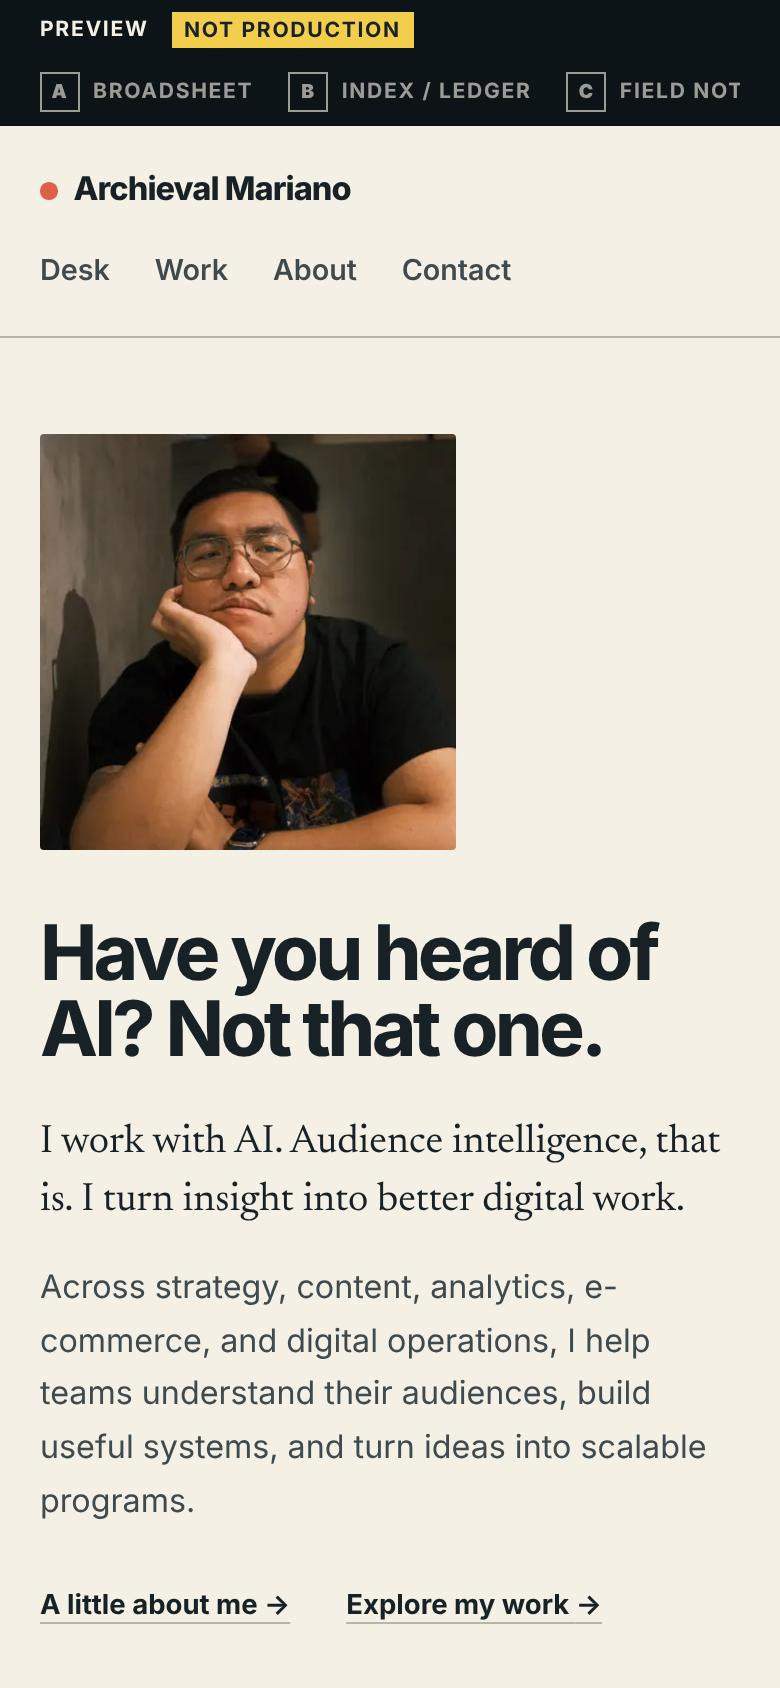
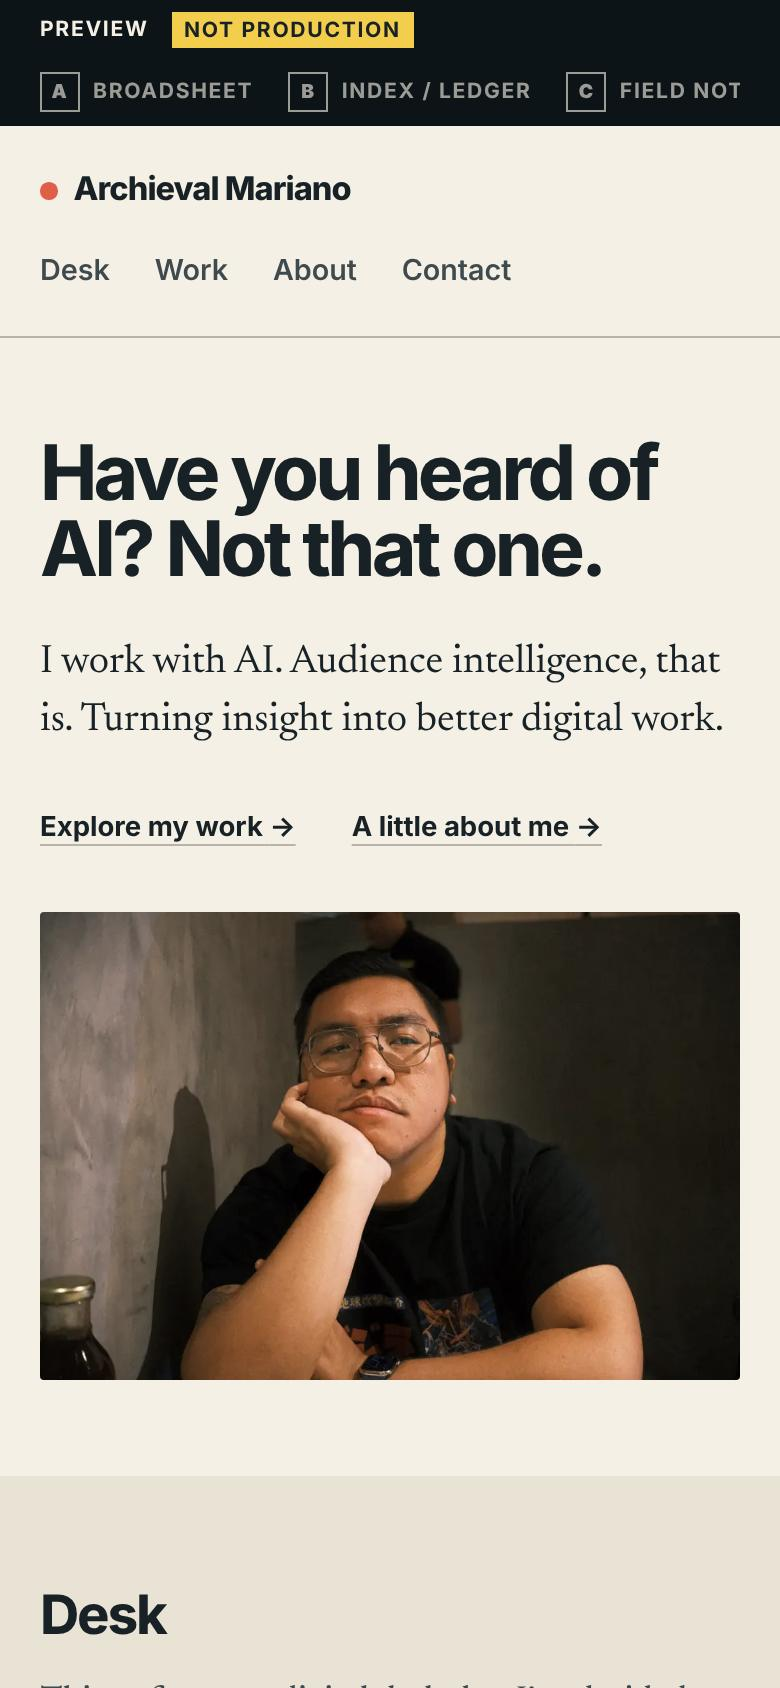
Refine exploration D: approved copy, full portrait, Work reading order
Fifth iteration of D · Quiet Personal Site (preview only):

- Approved copy for the hero, Desk (introduction, subtitles, and
  descriptions), Away from the dashboards, and Work, kept verbatim in one
  `copy` object in Quiet.astro (not the shared archive.ts, so A–C are
  unchanged). Apostrophes use the site's typographic ’.
- Hero: headline, approved supporting line, then "Explore my work" and
  "A little about me". The earlier intro paragraph is not part of the
  approved hero and is removed from D only.
- Portrait: the entire 2000×1333 photograph at its native 3:2, with no
  object-fit, forced ratio, or crop, in a column of up to 28rem.
- Desk: compact rows now show the approved subtitles. Rows, gating, and
  the DOGEAR feature are unchanged.
- Work: the heading and subheading sit beside the three approved
  paragraphs, which stay in one continuous column at a reading measure;
  the source order matches the reading order.
- The gate test asserts every approved line verbatim and the absence of
  superseded copy. The design notes and screenshots are updated.

Production and CI builds remain byte-identical to main.

Claude-Session: https://claude.ai/code/session_01MTmP2g4QmM7hkFLhRYRRGJ

diff --git a/src/data/homePreview.ts b/src/data/homePreview.ts
@@ -36,6 +36,6 @@ export const homeVariants: HomeVariant[] = [
     number: 'D',
     name: 'Quiet Personal Site',
     summary:
-      'Selected foundation. A restrained evolution of the current homepage, with Desk, Work, About, and Contact; Desk rows that expand as sections publish; personal photography; and a compact Work section.',
+      'Approved direction. A restrained evolution of the current homepage, with approved copy, the full portrait, Desk rows that expand as sections publish, personal photography, and a single-column Work introduction.',
   },
 ];

diff --git a/docs/redesign/home-explorations/README.md b/docs/redesign/home-explorations/README.md
@@ -1,6 +1,6 @@
 # Homepage explorations — four directions
 
-Status: **D · Quiet Personal Site is the selected foundation** and is now in its fourth iteration (adaptive Desk rows, wider portrait framing, aligned photo captions, and a more compact Work section). A–C are kept for reference only and are no longer developed. Nothing here is approved for production.
+Status: **D · Quiet Personal Site is the selected foundation** and is now in its fifth iteration (approved copy, the full uncropped portrait, and a single-column Work introduction). A–C are kept for reference only and are no longer developed. Nothing here is approved for production.
 
 Exploration 01 for repositioning archievalmariano.com from a professional portfolio
 into a personal archive: professional work, independent software, experiments,
@@ -144,14 +144,47 @@ photography into one visual language. **Risks:** the most art-directed, so the
 hardest to keep maintainable. The regional plate only stays meaningful if more
 located material is added over time.
 
-## D · Quiet Personal Site — iteration 4 (selected foundation)
+## D · Quiet Personal Site — iteration 5 (selected foundation)
 
-*Restraint over concept.* D keeps the production homepage's palette, Inter and
-Newsreader, understated rules, introduction, portrait, Desk · Work · About · Contact
-navigation, personal photography, and the dark blue closing panel. Iteration 4
-refines layout and responsiveness. Screenshots: [desktop, 1440px](quiet-desktop-full.jpg)
-· [mobile, 390px](quiet-mobile-full.jpg). The desktop page is 3,529px tall, down from
-4,074px in iteration 3 and 5,230px in iteration 2.
+*Approved direction.* Iteration 5 applies the author-approved copy, restores the full
+portrait, and adjusts the layout around the new text. Screenshots:
+[desktop, 1440px](quiet-desktop-full.jpg) · [mobile, 390px](quiet-mobile-full.jpg).
+
+### Iteration 5 changes
+
+- **Approved copy:** all section copy is the author-approved text, kept in a single
+  `copy` object at the top of `Quiet.astro` (not in the shared `archive.ts`, so A–C
+  are unchanged). It is reproduced exactly; the only character difference is that
+  apostrophes are set as typographic ’ to match the rest of the site. The gate test
+  asserts every approved line verbatim, and asserts that the superseded copy (hero
+  intro paragraph, old Projects description, travel paragraph) is gone.
+- **Hero:** the headline, then “I work with AI. Audience intelligence, that is.
+  Turning insight into better digital work.”, then the links “Explore my work” and
+  “A little about me”, in that order. The earlier “Across strategy…” paragraph is
+  not part of the approved hero and was removed from D only (production is
+  unchanged).
+- **Portrait:** the **entire 2000×1333 photograph** at its native 3:2. No
+  `object-fit`, no forced ratio, and no crop; the rendered ratio matches the
+  natural ratio at 1440px and 390px. It sits in a column of up to 28rem
+  (about 448×299px at desktop), bottom-aligned with the links, so the headline
+  stays primary. On mobile it follows the text at full width.
+- **Desk:** the approved introduction, subtitles, and descriptions. The subtitles
+  “As Things Stand” and “From the Margins” are now shown on the compact rows as
+  well. Rows, gating, and the DOGEAR feature are unchanged.
+- **Away from the dashboards:** the approved subheading and two paragraphs, with
+  the same three photographs, captions, and gallery layout.
+- **Work introduction:** see below.
+
+### Work introduction: reading order
+
+The three approved paragraphs are one argument, so they stay together in **one
+column** with a reading measure of about 36rem, never split across columns. The
+grid uses the same two columns as the Desk introduction: the heading “Work” and
+the subheading “The heart of it has always been writing.” on the left, and the
+continuous body column on the right. Source order is heading, subheading,
+paragraphs 1 to 3, then the categories. That is the reading order for screen
+readers and on mobile, where everything stacks in that order. The categories row
+(Case studies, Commissioned writing, and Services) follows unchanged.
 
 ### Navigation and information architecture (unchanged)
 
@@ -200,15 +233,6 @@ All three states are checked by `scripts/home-preview-gate-test.sh`, using the
 existing synthetic fixtures inside the test only. No fixture content is committed
 to these docs.
 
-### Portrait
-
-The source is a 3:2 landscape (2000×1333). Iteration 3 cropped it to 4:5, keeping
-about half the width. Iteration 4 uses a **square** crop: it keeps two-thirds of
-the width (more of the wall, shoulders, and both arms), is anchored slightly above
-centre, and stays in the same 20rem column. The image is shorter than before
-(about 320px rather than 400px at desktop), so its size relative to the headline
-stays modest. Same photograph; no frame was added.
-
 ### Photography and captions
 
 The tall Taipei panorama sits beside the two stacked landscapes, all uncropped.
@@ -224,11 +248,8 @@ balanced lines instead of four. On mobile, the panorama sits at 11rem with its
 caption beside it, aligned to the bottom, and the two landscapes follow at full
 width. The section's top and bottom spacing is unchanged.
 
-### Work
+### Work categories
 
-- **Introduction:** “Work” and the throughline title now share the first column,
-  with the two throughline paragraphs in the next two. This replaces the large
-  empty area beside the heading.
 - **Categories:** one row of three columns under Work, separated by hairlines:
   - **Case studies** (wider column): two selected entries plus “All case
     studies →”.
@@ -240,27 +261,27 @@ width. The section's top and bottom spacing is unchanged.
 
 ### Editorial style
 
-New or revised copy uses the serial comma. The provisional Desk descriptions are
-“Personal writing about gadgets, objects, and products.” and “Essays, reflections,
-and observations.” Existing published prose was not changed. Inconsistencies
+The homepage copy is the approved text and uses the serial comma. Existing
+published prose on other pages was not changed. Inconsistencies
 noticed for later editorial review (not edited):
 
 - `/desk/projects/` (intro and meta description): “applications, utilities and
-  experiments” (also reused verbatim on D).
+  experiments”. D now uses the approved “applications, utilities, and
+  experiments.”
 - `/desk/tools/` and `src/content/projects/tools.json`: “a calendar, a calculator
   and a clock”.
 - `/desk/` meta description: “a calendar, calculator and clock”.
 - `/desk/dogear/`: “books, literary anniversaries and discoveries” (twice).
 - `/work/` heading: “audiences, systems and digital work”.
-- Homepage throughline (also on D): “analytics, e-commerce and digital
+- Production homepage throughline: “analytics, e-commerce and digital
   operations”, while the cover intro on the same page uses “e-commerce, and
-  digital operations”.
+  digital operations”. (D no longer uses the throughline.)
 
 ### Images
 
 | Item | Asset | Presentation |
 | --- | --- | --- |
-| Hero | `archieval-portrait.jpg` | Square crop of the 3:2 source |
+| Hero | `archieval-portrait.jpg` | Entire photograph, native 3:2, uncropped |
 | Featured project (DOGEAR) | `dogear-01-issue-x4-x4pro.jpg` | Device photograph, uncropped |
 | Photography | `about-taipei-street.jpg`, `about-baywalk-cat.jpg`, `about-esplanade-bridge.jpg` | Uncropped, natural proportions |
 
@@ -281,7 +302,8 @@ because launched entries render as text.
 - **Remaining:**
   - Compact rows are plain text. Sighted users read the absence of a link, but
     nothing tells screen-reader users the category has no content yet. That is
-    deliberate, since you asked for no notices.
+    deliberate, since you asked for no notices. The approved subtitles now give
+    these rows a little more presence.
   - The photo alignment assumes the upper caption fits on one line at desktop
     widths. If it wraps, the panorama ends one line short (no cropping or
     overlap).
